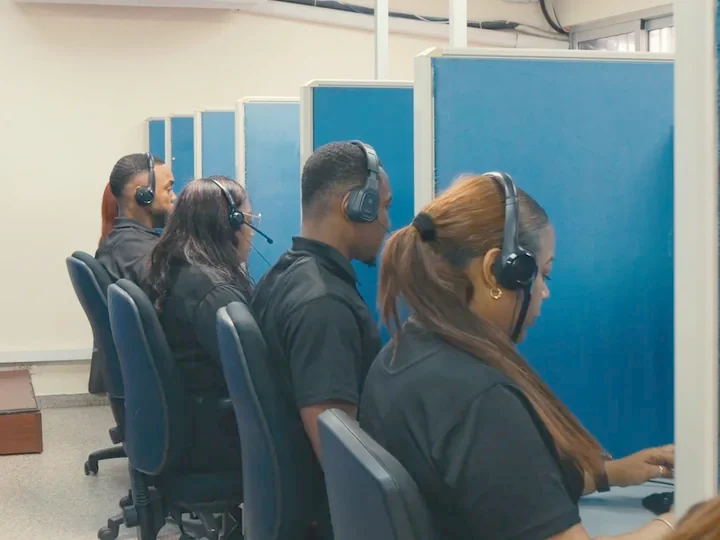
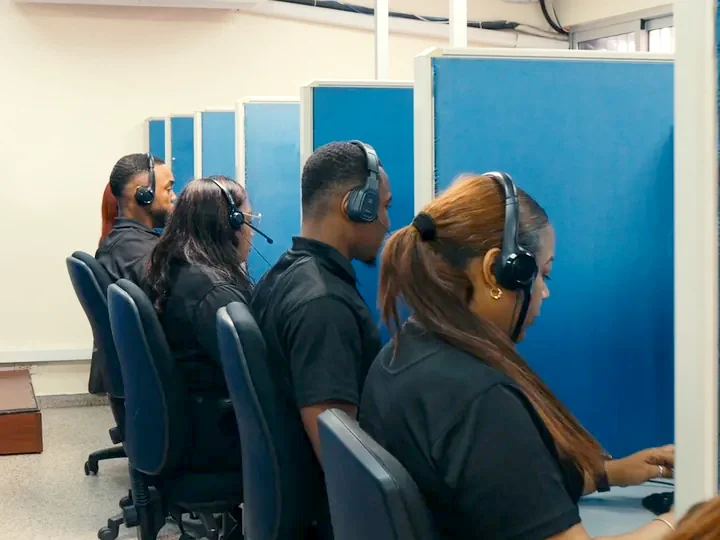
Ronda 5: fotos del video más claras sin verse lavadas (negros y color recuperados)

diff --git a/CLAUDE.md b/CLAUDE.md
@@ -47,7 +47,7 @@ Provisional en ese momento; ya llegaron el texto de Sobre nosotros, WhatsApp, di
 **Ronda 4 (correo de Isailis 2026-11-03; capturas en `brand/feedback-2026-11-03/`):** redes reales (Instagram Cariocacallcenter, Facebook Cariocaccenter, YouTube @CariocacallcenterCarioca); mapa con la geolocalización exacta que enviaron (18.440496,-69.9345207, "Carioca Banco Union"); portada: el cliente pidió volver a la foto de la agente con headset (Unsplash wnpf3Q5pkXA); regla del cliente: **nada de fotos con celular, siempre headset**, por eso inbound, outbound, back office, correo/WhatsApp, reto y el póster del video son cuadros reales de su video; logo de Vagaro retocado en la foto de contacto; "Somos Carioca" con su texto repartido en intro + 3 tarjetas (los títulos de las tarjetas son de Arcova).
 Video: original 4K en `brand/video/` (gitignored, 115 MB). Versión web 1080p H.264 de 12 MB en **Cloudflare R2**, bucket `carioca` de la cuenta de Juan (wrangler): https://pub-6bf6eb5ff39043cebdc177067da62248.r2.dev/video/carioca-call-center.mp4 . Se abre en ventana emergente desde el hero y "Somos Carioca"; solo se descarga al abrirlo.
 
-**Ronda 5 (correo de Isailis 2026-11-10; adjuntos en `brand/feedback-2026-11-10/`):** confirma que los requerimientos están completos; único pendiente: aclarar las imágenes, se ven oscuras. Se aclararon las 6 fotos sacadas del video (reto, inbound, outbound, back office, correo/WhatsApp y póster): gamma 0.6 + contraste y color +5%. Con eso dan el trabajo por completado. El video en sí no se tocó.
+**Ronda 5 (correo de Isailis 2026-11-10; adjuntos en `brand/feedback-2026-11-10/`):** confirma que los requerimientos están completos; único pendiente: aclarar las imágenes, se ven oscuras. Se aclararon las 6 fotos sacadas del video (reto, inbound, outbound, back office, correo/WhatsApp y póster): primero gamma 0.6 (Juan lo vio lavado); versión final: niveles (negro real), gamma 0.6–0.7 hacia luminancia media 0.52, curva S suave y color +7%. Con eso dan el trabajo por completado. El video en sí no se tocó.
 
 **Política de privacidad (2026-11-04):** `site/privacidad.html` ES/EN, base en la de Lowess adaptada a este sitio (Ley 172-13). Enlazada desde el formulario y el footer. Falta que Carioca la valide.
 
